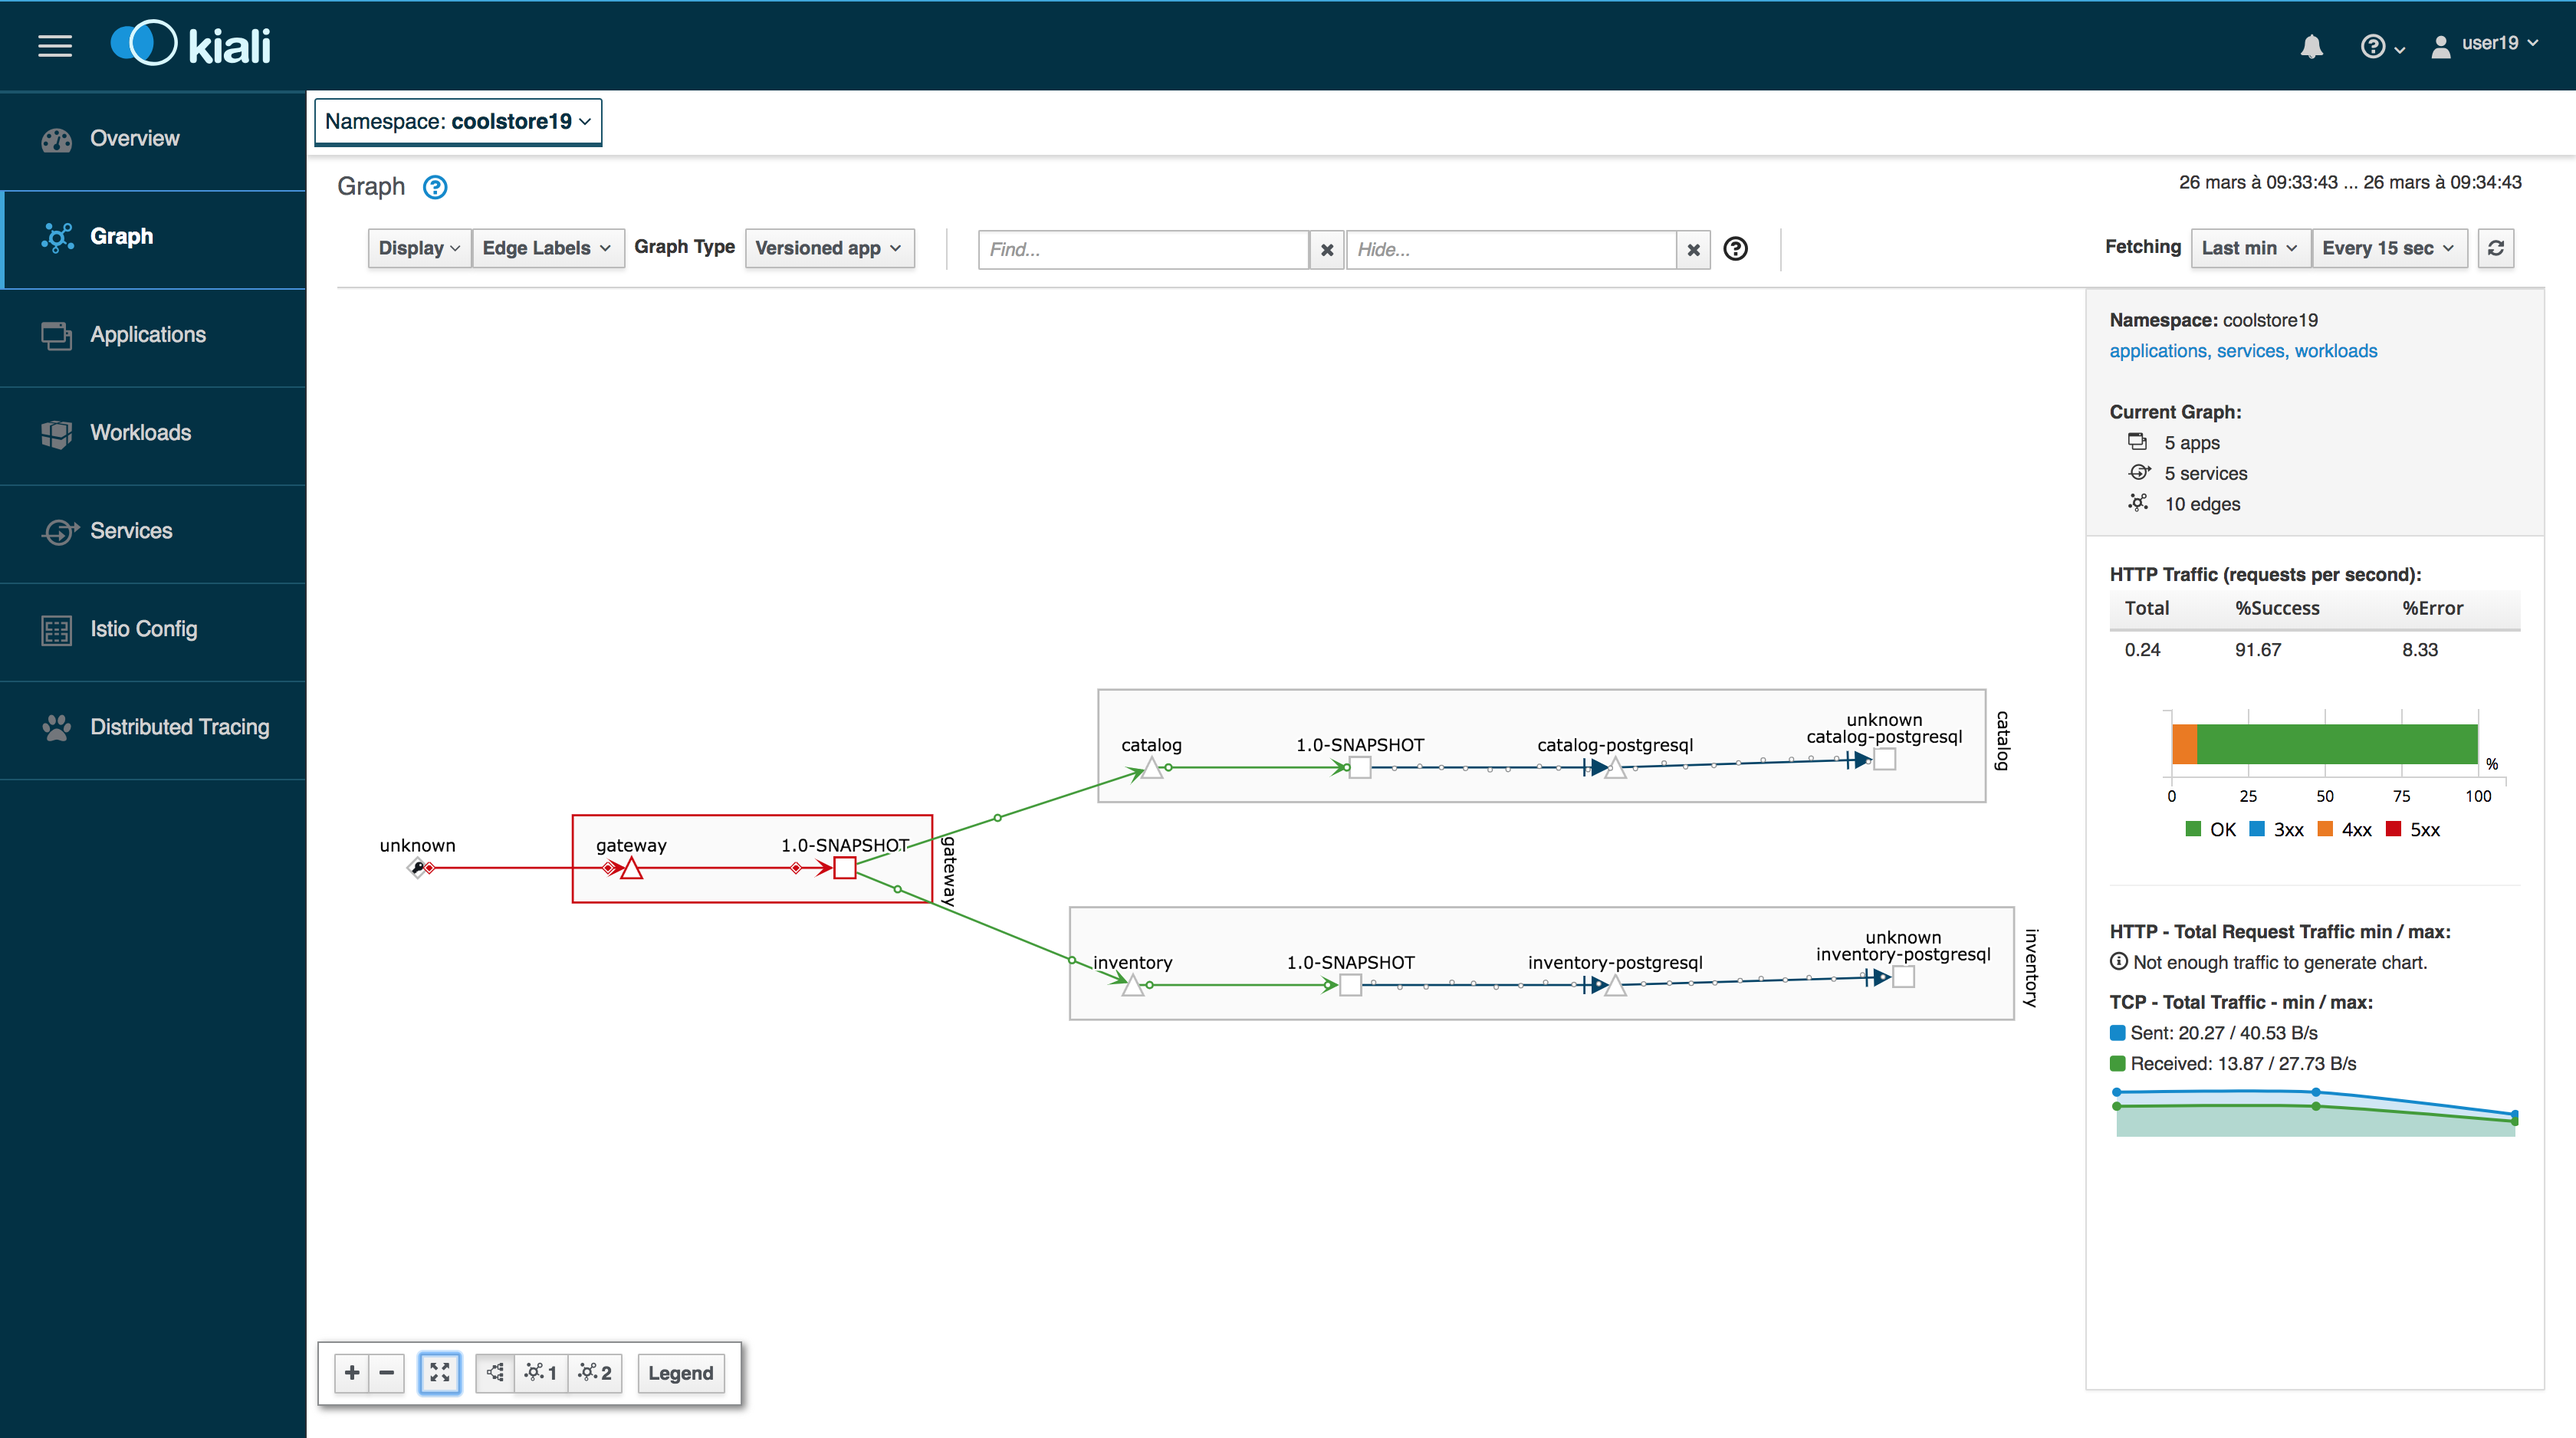
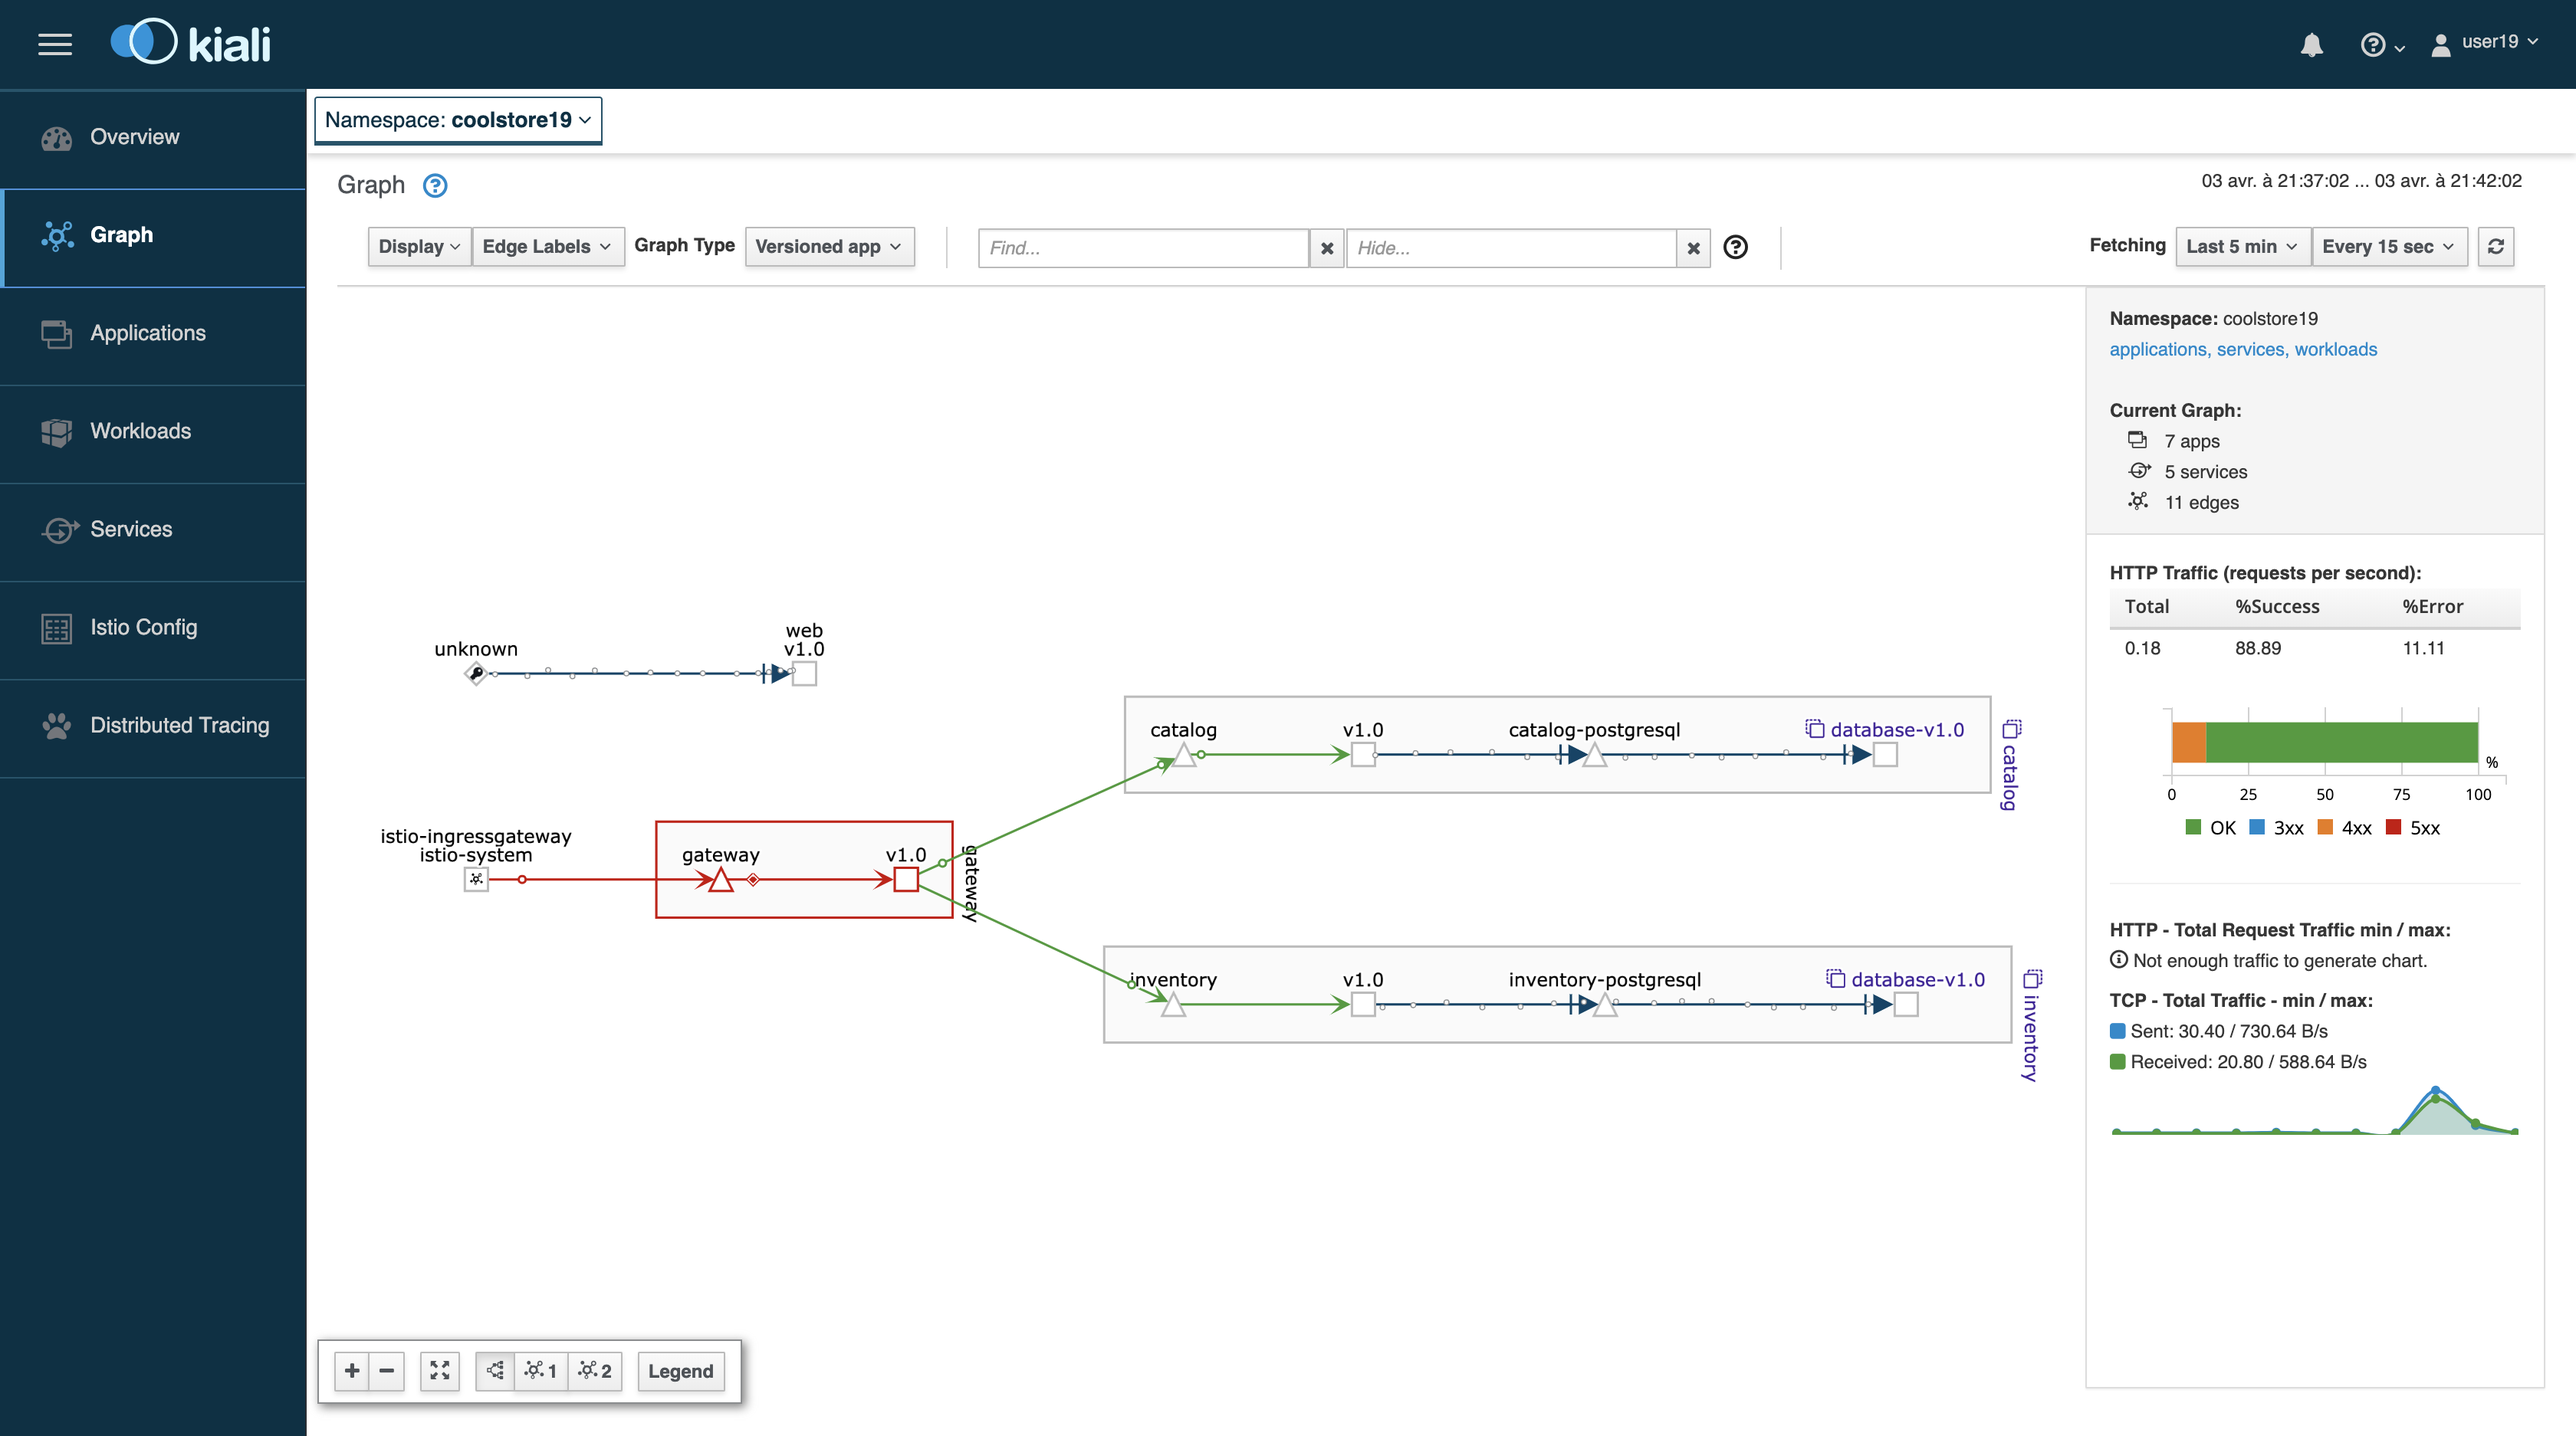
Finalized Kiali instructions

diff --git a/instructions/kiali.md b/instructions/kiali.md
@@ -1,7 +1,5 @@
 ## "Bird Box"... Not Today!!
 
-Context BlaBlaBla
-
 ![BirdBox]({% image_path birdbox.png %}){:width="300px"}
 
 #### Login to OpenShift
@@ -106,11 +104,11 @@ Even if the application *seemed* working fine, you can see from [Kiali Console](
 
 ![Kiali - 4xx]({% image_path kiali-4xx.png %}){:width="300px"}
 
-Please open the Javascript Console from your browser, and you will find a 404 error when calling the `gateway/api/cart` API.
+Open the Javascript Console from your browser, and you will find a 404 error when calling the `gateway/api/cart` API.
 
 ![Gateway Error]({% image_path gateway-cart-missing.png %}){:width="700px"}
 
-Indeed, when you check the APIs exposed by the gateway, you cannot find any `/api/cart` one.
+Indeed, when you check the APIs exposed by the gateway, you cannot find any `/api/cart/id-*` one.
 
 Let's fix it!!
 
@@ -130,18 +128,18 @@ In this chapter, you will focus on creating a Docker image using the produced na
 > If you want, take a moment to examine the source code of the Cart Service implemented with [Quarkus](https://quarkus.io/).
 > You can find it under the package `com.redhat.cloudnative` in the `src/main/java` directory of the `cart-quarkus` project.
 
-Execute the following commands in order to leverage the build mechanism of OpenShift
+In the *Terminal* window, execute the following commands to leverage the build mechanism of OpenShift and deploy the service:
 
 ~~~bash
 # To build the image on OpenShift
-$ oc new-build --binary --name=cart -lapp=cart
+$ oc new-build --binary --name=cart -lapp=cart,version=v1.0
 $ oc patch bc/cart -p '{"spec":{"strategy":{"dockerStrategy":{"dockerfilePath":"src/main/docker/Dockerfile"}}}}'
 $ oc start-build cart --from-dir /projects/labs/cart-quarkus --follow
 
 # To instantiate the image
 $ oc new-app --image-stream=cart:latest -lapp=cart,version=v1.0
 
-# To configure Catalog Service Deployment
+# To deploy an Istio SideCar and configure Catalog Service Deployment
 $ oc rollout pause dc/cart
 $ oc patch dc/cart --patch '{"spec": {"template": {"metadata": {"annotations": {"sidecar.istio.io/inject": "true"}}}}}'
 $ oc set env dc/cart CATALOG_ENDPOINT=http://catalog:8080
@@ -153,7 +151,8 @@ $ oc expose svc cart
 
 ![Openshift Console Cart]({% image_path console-cart.png %}){:width="500px"}
 
-You need to see that!!! Access to the log of the `Cart Service` pod and admire its amazing fast boot time!!
+**YOU HAVE TO SEE THAT!** 
+Have a look to the log of the `Cart Service` pod by cliking in the dark blue circle and then **just admire its amazing FAST BOOT TIME!**
 
 ~~~bash
 2019-04-01 20:13:35,623 INFO  [io.quarkus] (main) Quarkus 0.11.0 started in 0.009s. Listening on: http://0.0.0.0:8080 
@@ -163,7 +162,7 @@ You need to see that!!! Access to the log of the `Cart Service` pod and admire i
 
 **AND YES, IT'S A JAVA APPLICATION!**
 
-You can test the `Cart Service` is accessible via {{CART_ROUTE_HOST}} and click on `Test it`.
+You can ensure the proper functioning of the `Cart Service` by accessing to {{CART_ROUTE_HOST}} and click on `Test it`.
 
 ![Cart Service]({% image_path cart-service.png %}){:width="500px"}
 
@@ -190,7 +189,7 @@ Then, define the route `/api/cart/:cardId` in the `start()` method
         router.get("/api/cart/:cardId").handler(this::getCartHandler);
 ~~~
 
-Next, replace the `ServiceDiscovery.create` as following
+Next, replace the `ServiceDiscovery.create()` call as following
 
 ~~~java
         ServiceDiscovery.create(vertx, discovery -> {
@@ -252,14 +251,18 @@ Finally, add the `getCartHandler` method in the `GatewayVerticle` class.
     }
 ~~~
 
-Use the OpenShift CLI command to start a new build and deployment for the update `Gateway Service`:
+Check that your source code compiles then use the OpenShift CLI command to start a new build and deployment for the update `Gateway Service`:
 
 ~~~shell
-$ oc start-build gateway-s2i --from-dir labs/gateway-vertx/ --follow
+$ mvn clean package -f /projects/labs/gateway-vertx/
+$ oc start-build gateway-s2i --from-dir /projects/labs/gateway-vertx/ --follow
 ~~~
 
-You see the 404 error if fixed (Check the Javascript) and the Gateway Service in Kiali Graph is now green!!
+Once deployed, check your javascript console that the *404 error* has disappeared.
+In Kiali Graph, the Gateway Service is now green and you can see the new `Cart Service` is now present! 
 
 ![Gateway Fixed]({% image_path gateway-cart-fixed.png %}){:width="700px"}
+
+**CONGRATULATIONS!!!** You survive and you put off the blindfold on your own. But it is not THE END...
 
 Now let's go deeper!!
